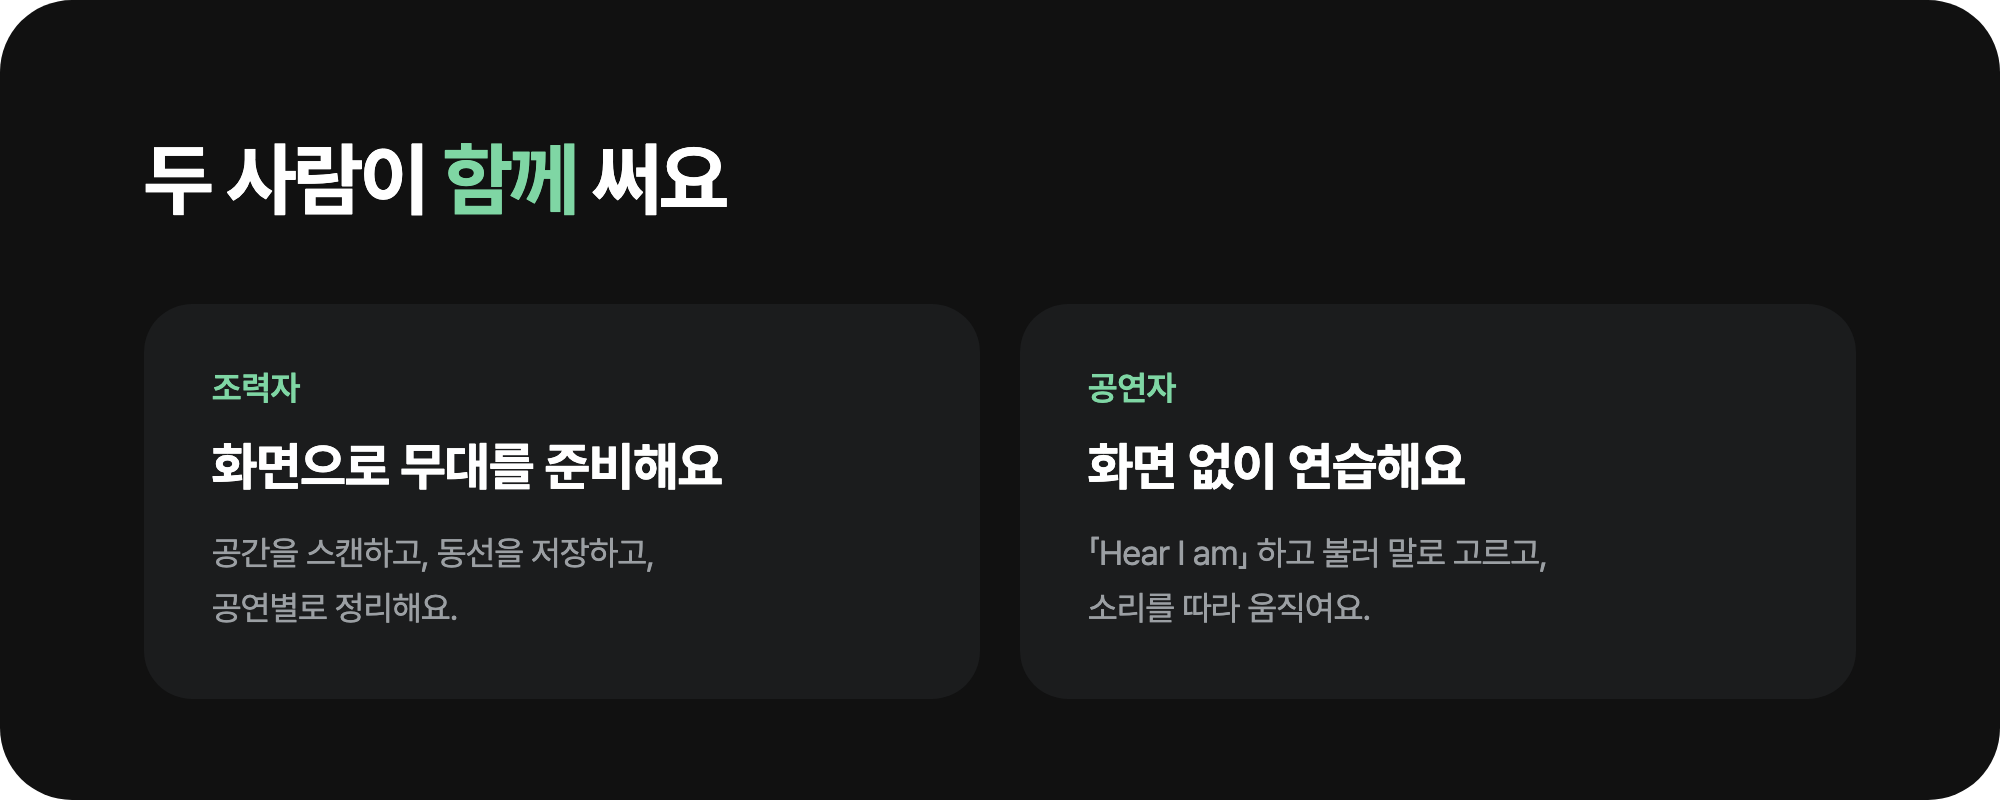
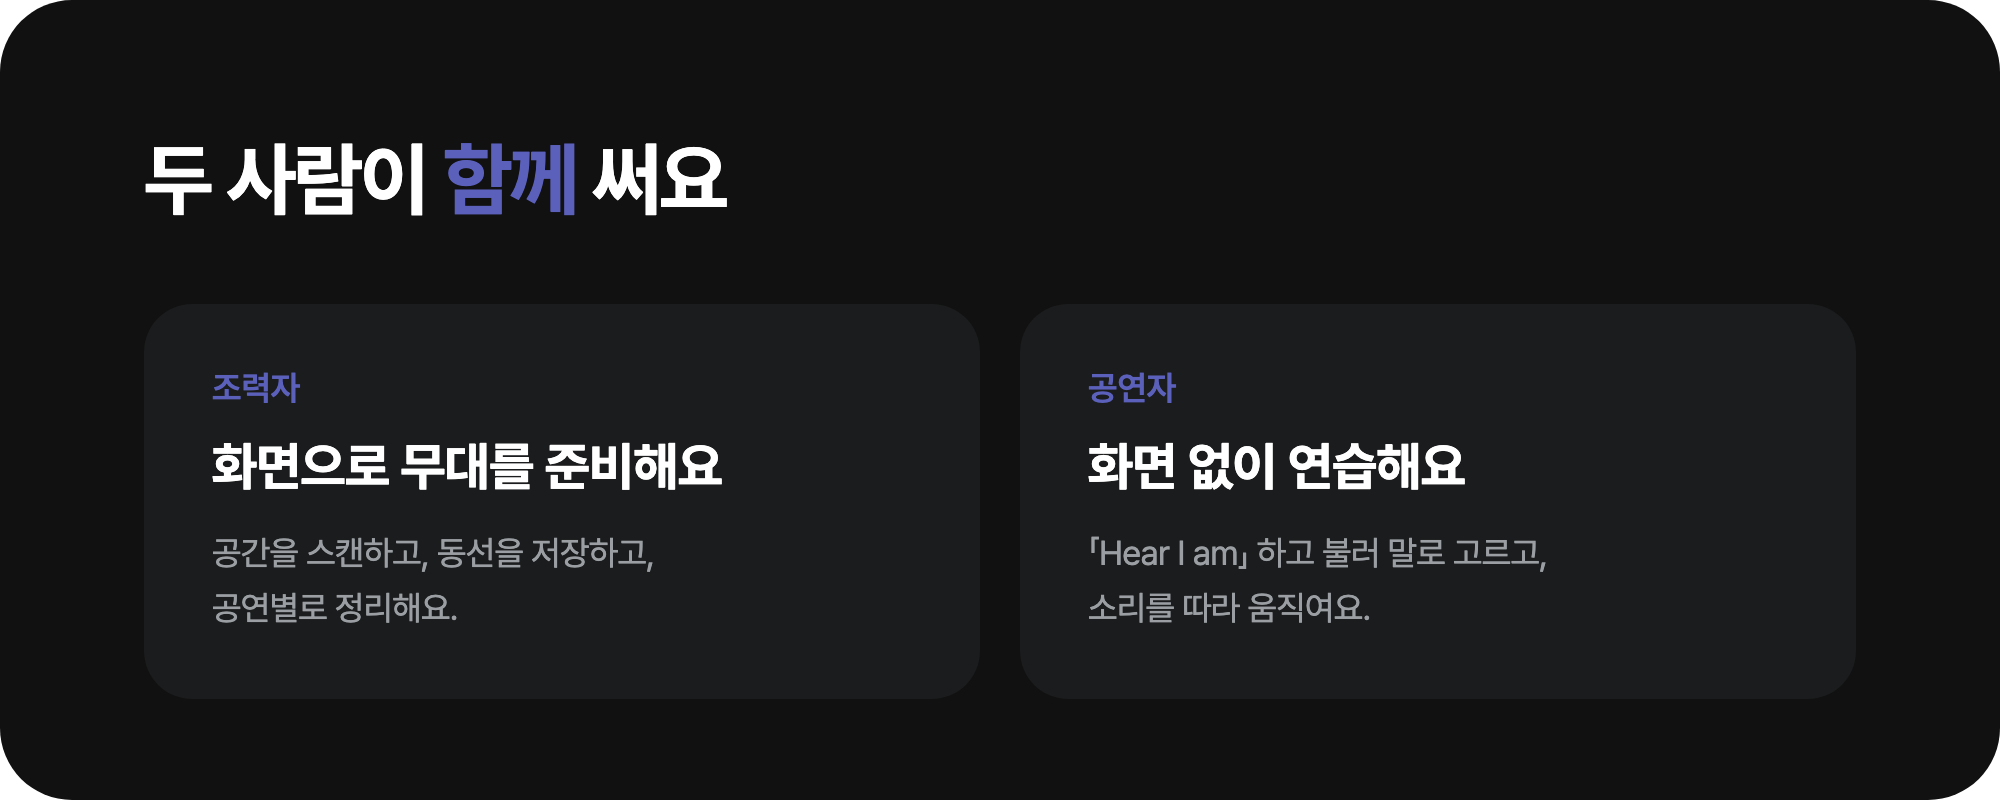
docs: README 카드 강조색을 초록에서 5B60BA로 바꾼다
사용자가 강조색을 #5B60BA로 정했다.

- src/cards.html: --accent를 #5b60ba로, 첫 카드 아래쪽 은은한 빛도 같은 계열(#20224a)로 바꿨다.
- card-*.png 9장을 다시 찍었다. 앱 화면 속 색(연습 안내의 초록 원 등)은 앱 그대로라 바꾸지 않았다.

Changed region(s): [[0.217, 0.1875, 0.31, 0.2812], [0.527, 0.4688, 0.589, 0.5], [0.093, 0.4688, 0.155, 0.5]]

diff --git a/.github/assets/readme/src/cards.html b/.github/assets/readme/src/cards.html
@@ -17,7 +17,7 @@
   @font-face { font-family: P; font-weight: 600; src: url("../../../../Hear-I-am/Resources/Fonts/Pretendard-SemiBold.otf"); }
   @font-face { font-family: P; font-weight: 700; src: url("../../../../Hear-I-am/Resources/Fonts/Pretendard-Bold.otf"); }
   @font-face { font-family: S; font-weight: 200; src: url("../../../../Hear-I-am/Resources/Fonts/SUIT-ExtraLight.otf"); }
-  :root { --bg: #111111; --surface: #1b1c1d; --line: #262829; --text: #ffffff; --sub: #9b9fa3; --accent: #7fd6a4; }
+  :root { --bg: #111111; --surface: #1b1c1d; --line: #262829; --text: #ffffff; --sub: #9b9fa3; --accent: #5b60ba; }
   * { box-sizing: border-box; margin: 0; }
   html, body { background: transparent; }
   body { font-family: P, -apple-system, sans-serif; color: var(--text); letter-spacing: -0.02em; }
@@ -32,7 +32,7 @@
 
   /* hero */
   #hero { height: 620px; padding: 0 34px 0 72px; align-items: center; gap: 30px;
-          background: radial-gradient(120% 90% at 85% 110%, #16352a 0%, var(--bg) 55%); }
+          background: radial-gradient(120% 90% at 85% 110%, #20224a 0%, var(--bg) 55%); }
   #hero .copy { width: 390px; flex: none; display: flex; flex-direction: column; gap: 22px; }
   #hero .icon { width: 96px; height: 96px; }
   #hero .name { font-family: S; font-weight: 200; font-size: 64px; letter-spacing: 0; line-height: 1; }
